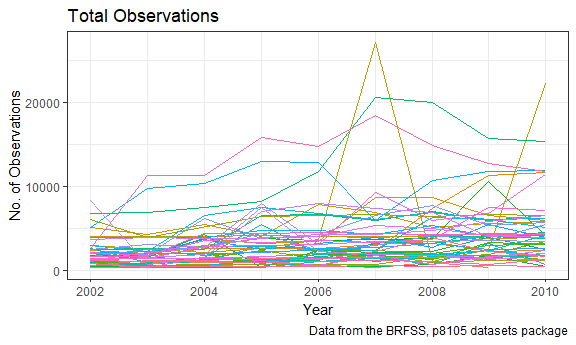
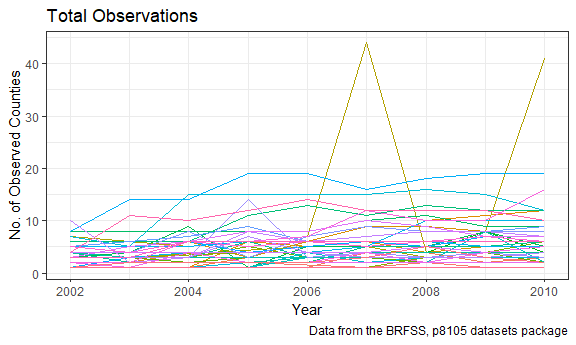
tweaking responses to problem 1 after reading discussion posts

diff --git a/p8105_hw3_js5431.md b/p8105_hw3_js5431.md
@@ -23,7 +23,7 @@ brfss = p8105.datasets::brfss_smart2010 %>%
   filter(topic == "Overall Health") %>%
   arrange(year, state, county) %>% 
   mutate(response = as.factor(response)) %>% 
-  select(year, state, county, response, sample_size, data_value)
+  select(year, state, county, response, data_value)
 ```
 
 #### Questions and Responses
@@ -46,19 +46,19 @@ brfss = p8105.datasets::brfss_smart2010 %>%
     ## 2 FL             7
     ## 3 NC             7
 
--   Make a “spaghetti plot” that shows the number of observations in each state from 2002 to 2010.
-    -   This plot is horrifying. I removed the legend, as trying to determine which line represents which individual state is anxiety inducing. Overall, I would say that this plot shows that for most states, the total number of observations has remained fairly constant over time, with a few states having very large variability.
+-   Make a “spaghetti plot” that shows the number of locations in each state from 2002 to 2010.
+    -   This plot is horrifying. I removed the legend, as trying to determine which line represents which individual state is anxiety inducing. Overall, I would say that this plot shows that for most states, the total number of locations has remained fairly constant over time, with a few states having very large variability.
 
 ``` r
 brfss %>%
   group_by(year, state) %>% 
-  summarize(obs_state = sum(sample_size)) %>% 
-  ggplot(aes(x = year, y = obs_state, color = state)) +
+  summarize(n_counties = n_distinct(county)) %>% 
+  ggplot(aes(x = year, y = n_counties, color = state)) +
   geom_line() +
   labs(
     title = "Total Observations",
     x = "Year",
-    y = "No. of Observations",
+    y = "No. of Observed Counties",
     caption = "Data from the BRFSS, p8105 datasets package") +
   theme(legend.position="none")
 ```
